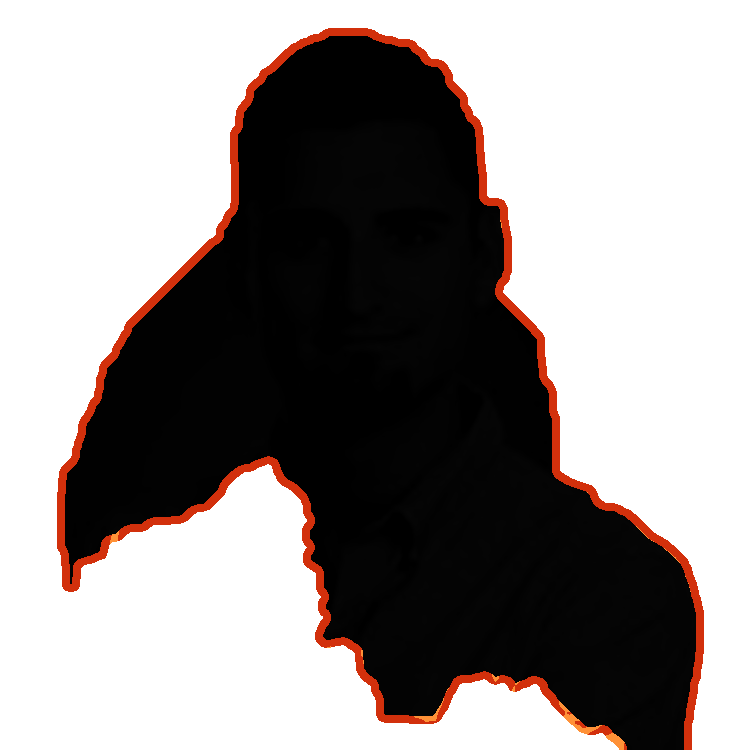
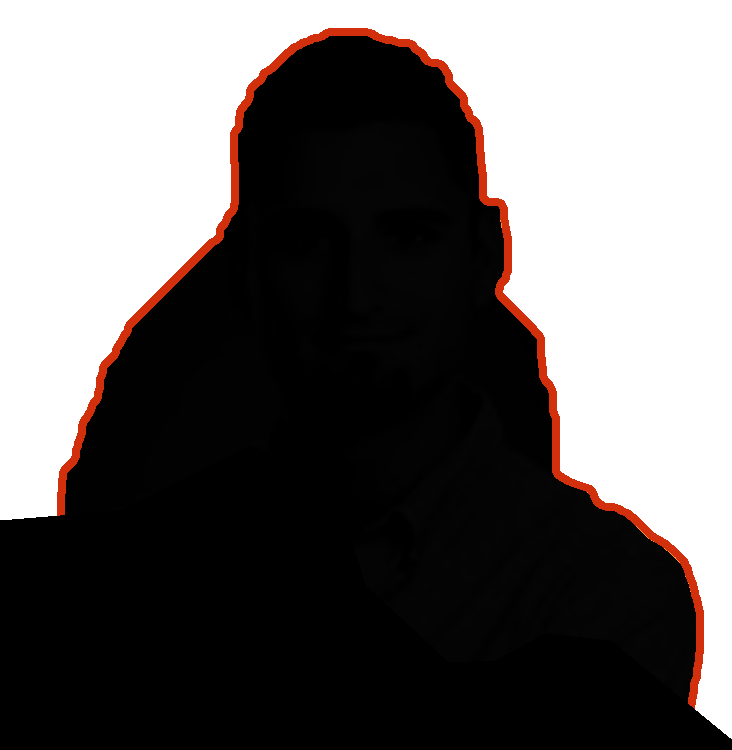
Clean up Adam and Jai silhouette assets - V15

Changed region(s): [[0.0, 0.6133, 0.8716, 1.0], [0.9317, 0.92, 1.0, 1.0]]

diff --git a/index.html b/index.html
@@ -235,7 +235,7 @@
       <article class="founder-card no-headshot" tabindex="0" aria-label="Jai Thornhill. Professional headshot coming soon.">
         <div class="founder-card-top"><span class="founder-number">03</span><span class="founder-status">Founder</span></div>
         <div class="portrait-stack">
-          <img class="silhouette" src="assets/images/jai-silhouette-clean.jpg" alt="Jai Thornhill silhouette">
+          <img class="silhouette" src="assets/images/jai-silhouette-clean.png" alt="Jai Thornhill silhouette">
           <div class="portrait-shade" aria-hidden="true"></div>
           <div class="coming-soon"><strong>Portrait coming soon</strong><span>Professional headshot will be added here.</span></div>
         </div>

diff --git a/assets/css/styles.css b/assets/css/styles.css
@@ -105,7 +105,7 @@ main section[id]{scroll-margin-top:108px}
 }
 /* Transparent silhouettes should sit naturally on the card background. */
 .portrait-stack img[src$="silhouette-clean.png"]{padding:8px 10px 0}
-.portrait-stack img[src$="jai-silhouette-clean.jpg"]{padding:6px 24px 0}
+.portrait-stack img[src$="jai-silhouette-clean.png"]{padding:8px 28px 0}
 
 /* Contact */
 .contact-section{
